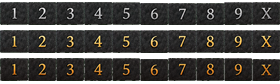
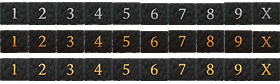
Inventory tab row uses the v3 arabic buttons, orange for active (v1.1.31)
Points InventoryTabsArt at inventory_tabs_v3.png. Pure asset swap - the
sheet was cut to the existing tabs asset's exact 280x84 / 28px-cell
shape precisely so this needed no layout change.

Rendering the row at its real in-game geometry first showed the sheet's
own ACTIVE column (gold) sits too close to the silver of its neighbours
at 28px - you had to hunt for which tab was open. The CLICKED column
(orange) separates far more strongly, so it is promoted to the ACTIVE
state. The gold is not discarded, it moves to row 2, so all three states
still ship and a real pressed state has art if one is ever wired up.

Also drops RomanNumeralTabLabels, dead since the tabs became art-driven
in the panel rework - nothing referenced it.

diff --git a/Source/oracool/hud_art.cpp b/Source/oracool/hud_art.cpp
@@ -51,7 +51,10 @@ ArtAsset MenuIconsArt { "ui\\menu_icons.png" };
  * and SORT button ship separately because they change state at runtime.
  */
 ArtAsset InventoryPanelArt { "ui\\inventory_panel.png" };
-ArtAsset InventoryTabsArt { "ui\\inventory_tabs.png" };
+// v3 of the tab strip: arabic 1-9 and X, square and borderless, replacing the roman-numeral
+// set. Same 280x84 shape and same 28px cells as the sheet it replaces, so this is a pure
+// asset swap - see tools/CutTabButtonsV3.ps1, which cuts it to that format deliberately.
+ArtAsset InventoryTabsArt { "ui\\inventory_tabs_v3.png" };
 ArtAsset InventorySortArt { "ui\\inventory_sort.png" };
 /** The belt's Town Portal button. Drawn over the portal ring painted into the plate art. */
 ArtAsset TownPortalIconArt { "ui\\town_portal_icon.png" };

diff --git a/Source/inv.cpp b/Source/inv.cpp
@@ -1437,11 +1437,6 @@ void InitInv()
  * game's original, non-editable inv.cel/inv_rog.cel/inv_sor.cel background images - can't move to
  * make room. Selected tab is gold and drawn a few pixels larger; inactive tabs are a muted gray.
  */
-/** @brief Oracool: user request - tab numbers 1-10 shown as roman numerals instead of digits. */
-constexpr const char *RomanNumeralTabLabels[Player::NumExtraInventoryTabs + 1] = {
-	"I", "II", "III", "IV", "V", "VI", "VII", "VIII", "IX", "X"
-};
-
 void DrawInventoryTabs(const Surface &out)
 {
 	// Oracool V1: real artwork now - roman numerals cut from the user's sheet, silver unselected
